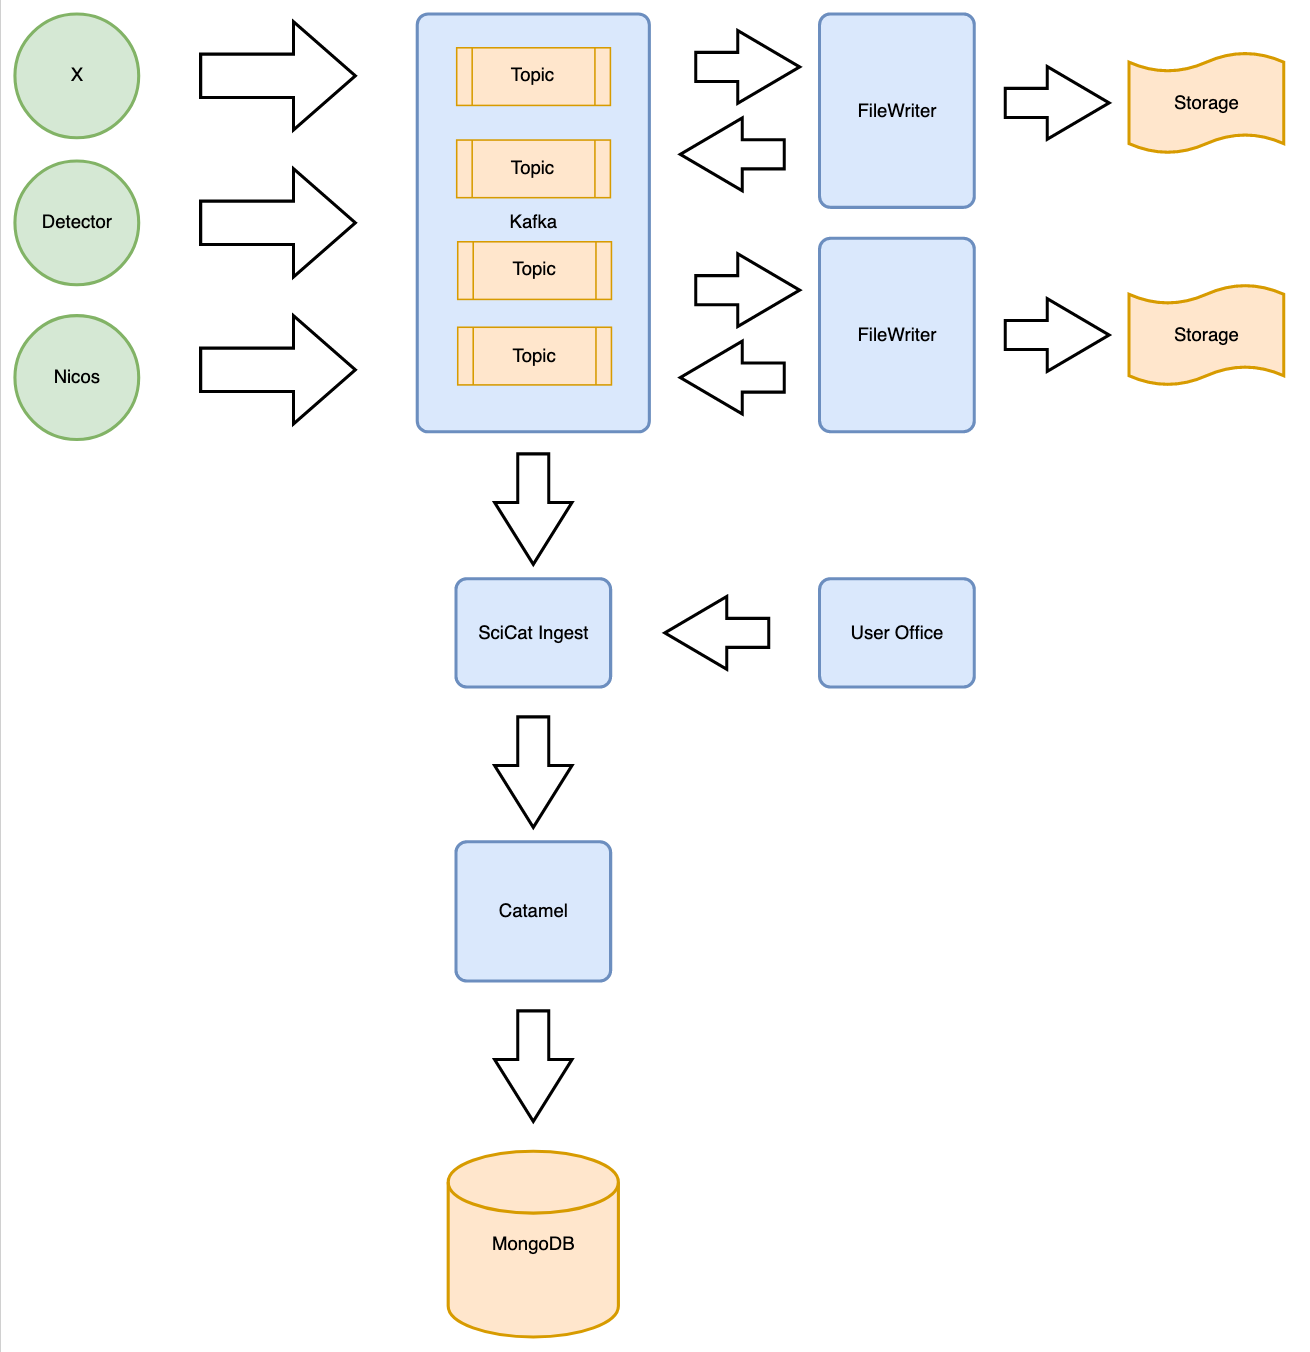
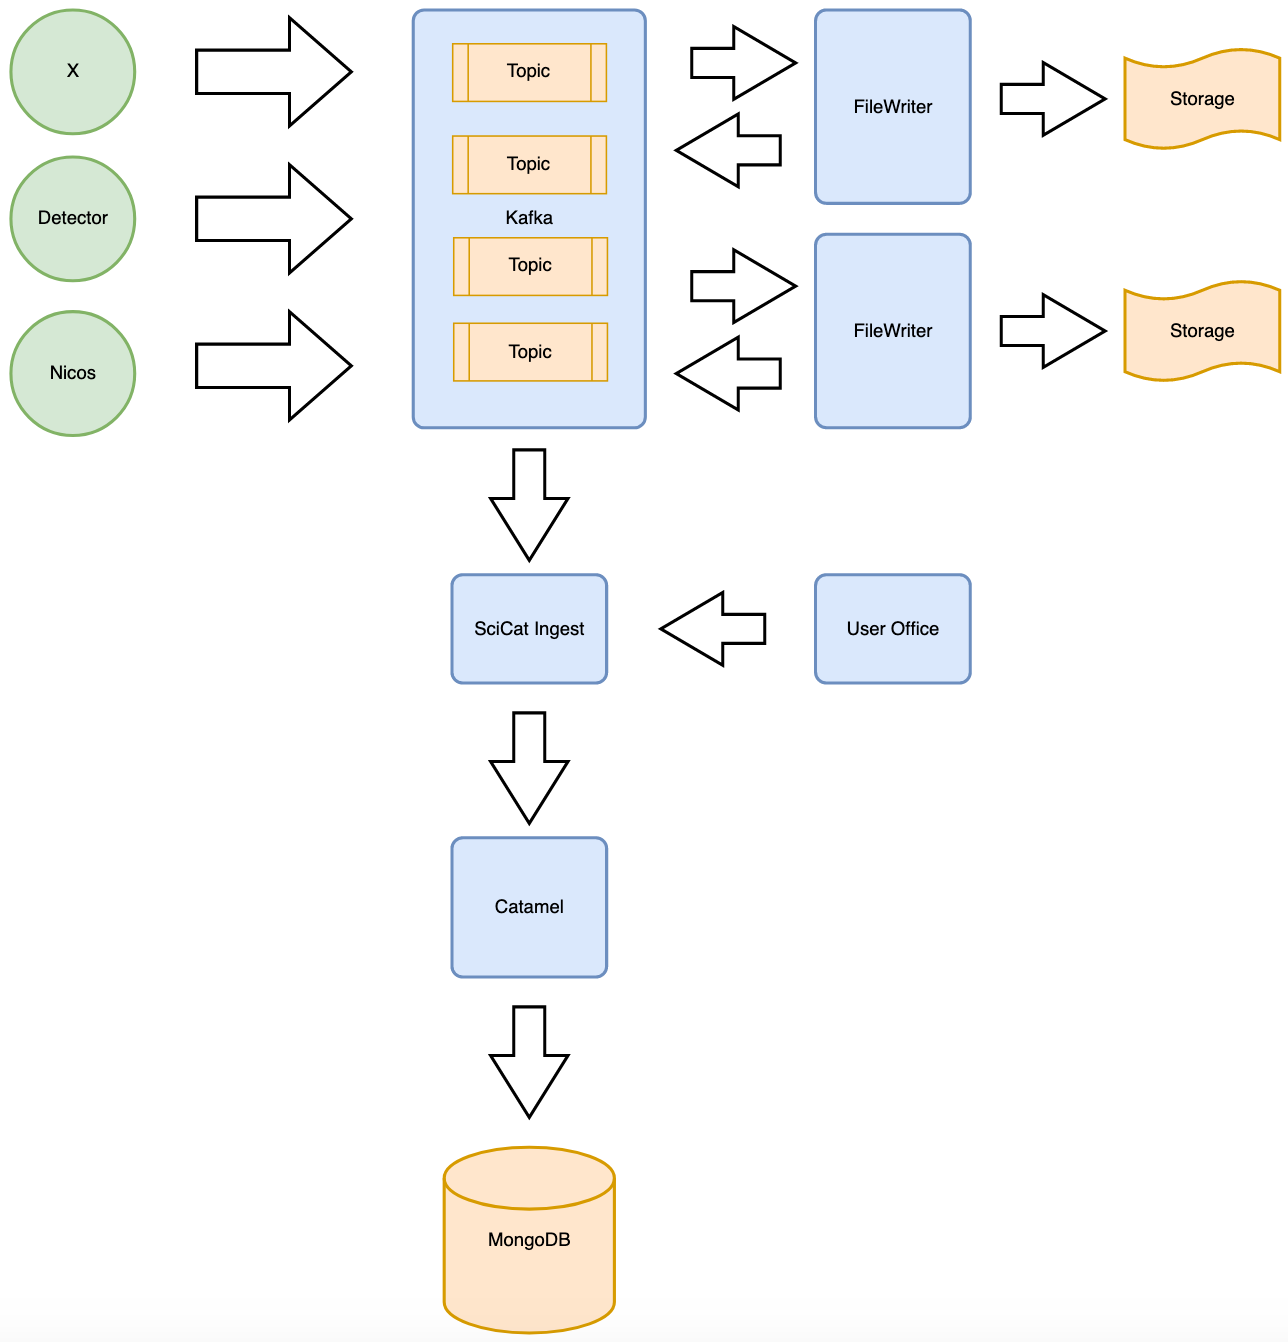
add screenshot placeholders

diff --git a/Ingestor/IngestManual_ESS.md b/Ingestor/IngestManual_ESS.md
@@ -1,31 +1,37 @@
 # Ingest Instructions ESS
 
-![Anonymous View](screenshots/kafka.png)
+![Kafka flow](screenshots/kafka.png)
 
-As shown in the picture above the detector and the data collection software is writing into kafka topics. The topics is then being read by a filewriter that in turn writes the dataset to storage and sends back an event when the file is written. There is than ingestion program that will parse the event, gather information from additional resources and trigger a REST calls into Catamel. 
+As shown in the picture above the detector and the data collection software is writing into kafka topics. The topics is then being read by a filewriter that in turn writes the dataset to storage and sends back an event when the file is written that contains metadata about the file and the experiment. There is than ingestion program that will parse the event from the filewriter and gather additional information before triggering REST calls into Catamel. 
 
 ### How the ingestion program works:
 
-#### Parse Event
+#### 1. Parse Event
 
-The ingestor is subscribing to a topic in Kafka where the filewriter creates an event when a file has been written. This event contains information about location, proposal id and metadata that exist on the file in form of the nexus format. 
+The ingestor is subscribing to a topic in Kafka where the filewriter creates an event when a file has been written. This event contains information about location, proposal id and metadata that exist on the file in the form of nexus data. 
 
-#### Login  
+#### 2. Login  
 
  Login and get a access token that can be used for interfacing with Catamel. We advise to create a special ingestor account to be used when doing automatic ingestion. 
 
-#### Gather more metadata
+#### 3. Gather more metadata
 
 The ingestor contacts the User Office and get's additional information regarding the experiment, the principal investigator and the sample.
 
-#### Create dataset
+#### 4. Create dataset
+
+![dataset](screenshots/dataset.png)
 
 Using the information from the filewriter event with the additional information gathered from the user office a dataset request can be constructed and sent to Catamel.
 
-#### Create OrigDatablocks
+#### 5. Create OrigDatablocks
+
+![datablock](screenshots/datablock.png)
 
 After a dataset has been created we attach the files that relate, this is done by creating datablocks that attaches to the dataset
 
-#### Create Sample
+#### 6. Create Sample
+
+![sample](screenshots/sample.png)
 
 If sample information is available a sample record can be created and attached to the dataset. This is an important step as it makes the data available to a wider audience of people. 
